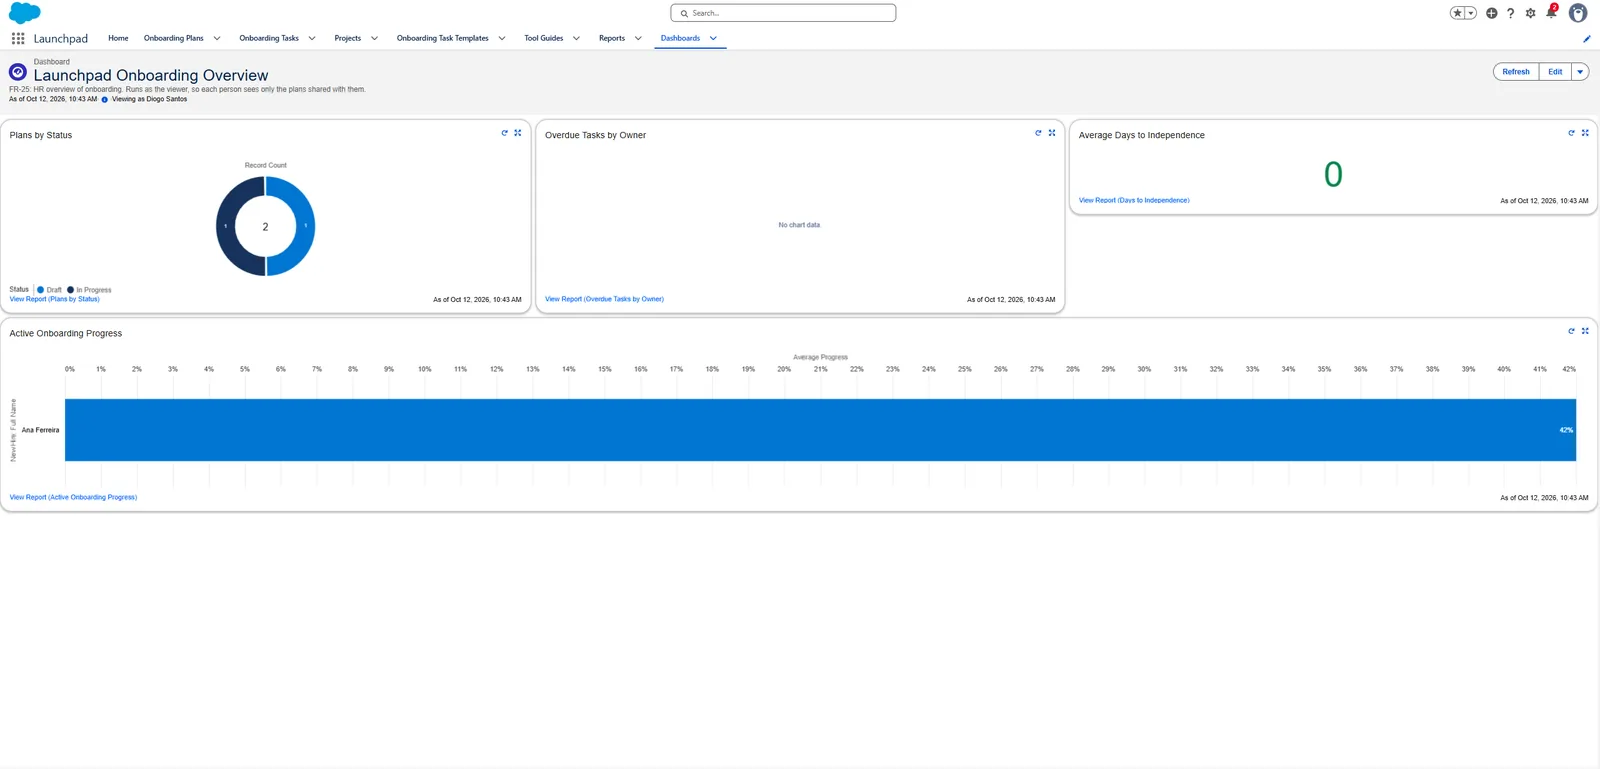
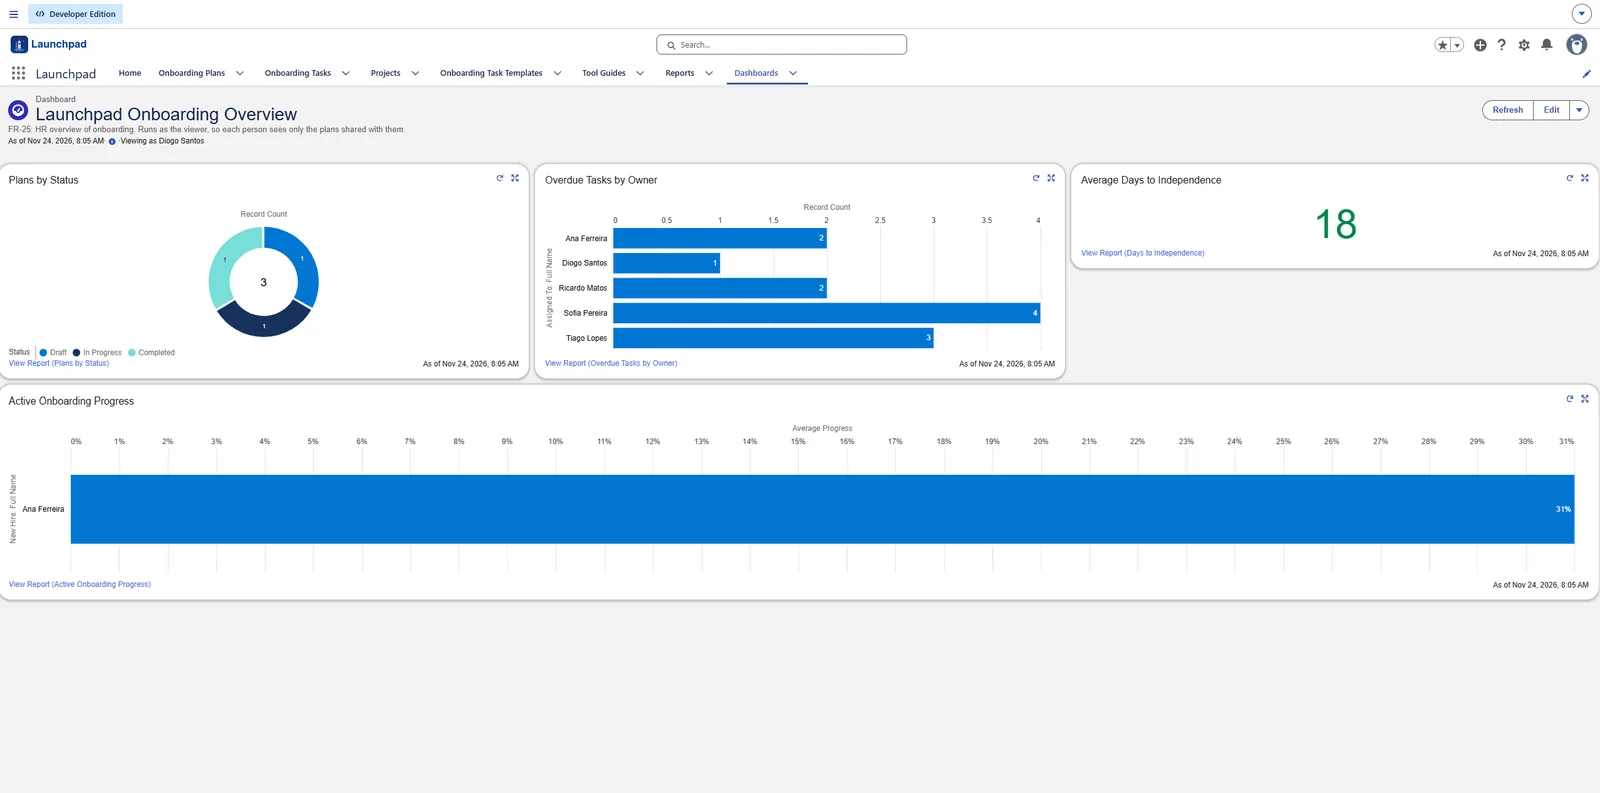
Launchpad gallery: new Command Centre and HR dashboard screenshots

diff --git a/assets/js/data.js b/assets/js/data.js
@@ -83,11 +83,11 @@ const CV = {
       context:"Personal project · Salesforce · 2026",
       shots:[
         {src:"assets/img/shots/launchpad-cover.webp?v=20261118-2", caption:"Launchpad: employee onboarding on Salesforce, from role preparation to independence"},
-        {src:"assets/img/shots/launchpad-home.webp", caption:"Command Centre: live KPIs against the 21-day target and a launch watchlist that flags plans with no buddy or Role Brief"},
+        {src:"assets/img/shots/launchpad-home.webp?v=20261124", caption:"Command Centre: live KPIs against the 21-day target and a launch watchlist that flags plans with no buddy or Role Brief"},
         {src:"assets/img/shots/launchpad-plan.webp?v=20261014-3", caption:"Onboarding plan with a Path, tabs, quick actions and the Mission Control component: launch countdown, next task and crew"},
         {src:"assets/img/shots/launchpad-tasks.webp", caption:"Onboarding tasks generated from templates and assigned to the new hire, manager, buddy and HR"},
         {src:"assets/img/shots/launchpad-validation.webp", caption:"Validation rules enforce the plan lifecycle, from Draft to Ready to In Progress"},
-        {src:"assets/img/shots/launchpad-dashboard.webp", caption:"HR dashboard, including average days to independence against the 3-week target"},
+        {src:"assets/img/shots/launchpad-dashboard.webp?v=20261124", caption:"HR dashboard, including average days to independence against the 3-week target"},
         {src:"assets/img/shots/launchpad-employee.webp", caption:"What a new hire sees: their own tasks, plan and tool guides, nothing else"},
         {src:"assets/img/shots/launchpad-flow.webp", caption:"Record-triggered Flow that generates the tasks when a plan starts"}
       ],
